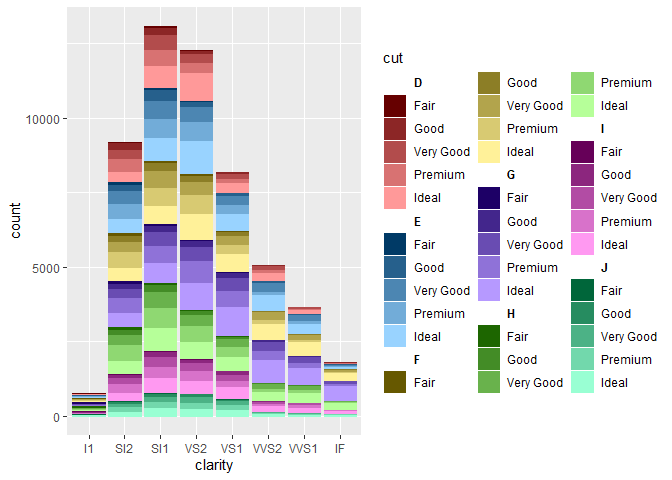
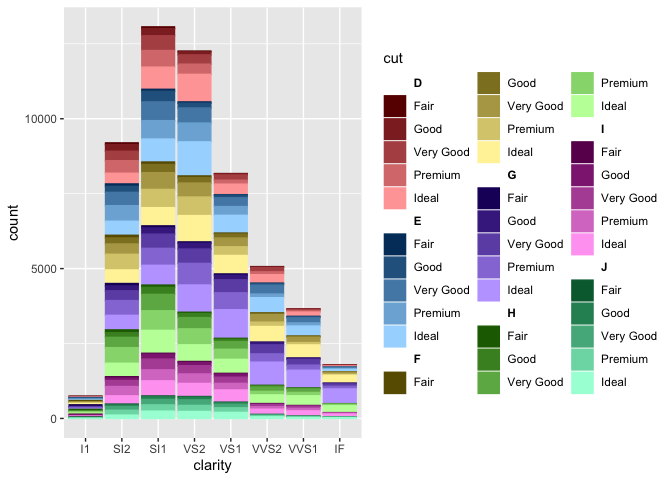
Updated documentation and readme

diff --git a/README.md b/README.md
@@ -139,7 +139,7 @@ Note that if a custom palette is named, the colours will be associated
 with the appropriate `main_group` level.
 
 ``` r
-pal <- c("red", "blue", "green", "yellow", "purple", "orange", "grey50")
+pal <- c("red", "blue", "green", "yellow", "purple", "orange", "violet")
 names(pal) <- unique(diamonds$color)
 p <- ggnested(diamonds, 
          aes(clarity, 
@@ -190,12 +190,69 @@ ggnested(diamonds,
              main_group = color, 
              sub_group = cut),
          gradient_type = "both",
-         min_l = 0.3,
-         max_l = 0.6) + 
+         min_l = 0.25,
+         max_l = 0.95) + 
   geom_bar()
 ```
 
 ![](man/figures/README-gradient_both-1.png)<!-- -->
+
+#### Fancy gradients
+
+As you can tell by the plots above, the shades and tints approach can
+sometimes look a bit flat. A fourth option, `fancy`, is therefore
+available. In this mode, it is recommended to change the default `min_l`
+to a higher number. Furthermore, some additional parameters are
+available, namely `min_c`, `max_c` and `power`. `min_c` and `max_c`
+alter the minimum and maximum chroma of the gradient, which determines
+the saturation. `power` determines whether the gradient is linear (`1`),
+quadratic (`2`) or more.
+
+``` r
+ggnested(diamonds, 
+         aes(clarity, 
+             main_group = color, 
+             sub_group = cut),
+         gradient_type = "fancy",
+         min_l = 0.25,
+         max_l = 0.95) + 
+  geom_bar()
+```
+
+![](man/figures/README-gradient_fancy-1.png)<!-- -->
+
+``` r
+ggnested(diamonds, 
+         aes(clarity, 
+             main_group = color, 
+             sub_group = cut),
+         gradient_type = "fancy",
+         min_l = 0.25,
+         max_l = 0.95,
+         min_c = 100,
+         max_c = 10
+         ) + 
+  geom_bar()
+```
+
+![](man/figures/README-gradient_fancy_chroma-1.png)<!-- -->
+
+``` r
+ggnested(diamonds, 
+         aes(clarity, 
+             main_group = color, 
+             sub_group = cut),
+         gradient_type = "fancy",
+         min_l = 0.25,
+         max_l = 0.95,
+         min_c = 100,
+         max_c = 10,
+         power=2
+         ) + 
+  geom_bar()
+```
+
+![](man/figures/README-gradient_fancy_power-1.png)<!-- -->
 
 #### Palette generation
 
@@ -205,20 +262,20 @@ It’s also possible to create your own nested palette for other purposes:
 nested_palette(diamonds,
                group = "color",
                subgroup = "cut")
-#> # A tibble: 35 x 5
+#> # A tibble: 35 × 5
 #>    color cut       group_colour subgroup_colour group_subgroup
 #>    <ord> <ord>     <chr>        <chr>           <chr>         
-#>  1 D     Fair      #008CF0      #003C66         D_Fair        
-#>  2 D     Good      #008CF0      #26628C         D_Good        
-#>  3 D     Very Good #008CF0      #4C88B2         D_Very Good   
-#>  4 D     Premium   #008CF0      #72AED8         D_Premium     
-#>  5 D     Ideal     #008CF0      #99D5FF         D_Ideal       
-#>  6 E     Fair      #F0CB00      #665600         E_Fair        
-#>  7 E     Good      #F0CB00      #8C7C26         E_Good        
-#>  8 E     Very Good #F0CB00      #B2A24C         E_Very Good   
-#>  9 E     Premium   #F0CB00      #D8C872         E_Premium     
-#> 10 E     Ideal     #F0CB00      #FFEF99         E_Ideal       
-#> # ... with 25 more rows
+#>  1 D     Fair      #008CF0      #003D69         D_Fair        
+#>  2 D     Good      #008CF0      #29648E         D_Good        
+#>  3 D     Very Good #008CF0      #538BB3         D_Very Good   
+#>  4 D     Premium   #008CF0      #7CB2D9         D_Premium     
+#>  5 D     Ideal     #008CF0      #A6DAFF         D_Ideal       
+#>  6 E     Fair      #F0CB00      #695800         E_Fair        
+#>  7 E     Good      #F0CB00      #8E7E29         E_Good        
+#>  8 E     Very Good #F0CB00      #B3A453         E_Very Good   
+#>  9 E     Premium   #F0CB00      #D9CA7C         E_Premium     
+#> 10 E     Ideal     #F0CB00      #FFF1A6         E_Ideal       
+#> # … with 25 more rows
 ```
 
 Alternatively, the colour palette can be extracted from the ggplot2
@@ -226,23 +283,23 @@ object using `extract_palette`.
 
 ``` r
 extract_palette(p)
-#> # A tibble: 35 x 3
+#> # A tibble: 35 × 3
 #>    group_subgroup group_colour subgroup_colour
 #>    <ord>          <chr>        <chr>          
-#>  1 D - Fair       grey50       #333333        
-#>  2 D - Good       grey50       #595959        
-#>  3 D - Very Good  grey50       #7F7F7F        
-#>  4 D - Premium    grey50       #A5A5A5        
-#>  5 D - Ideal      grey50       #CCCCCC        
-#>  6 E - Fair       red          #660000        
-#>  7 E - Good       red          #8C2626        
-#>  8 E - Very Good  red          #B24C4C        
-#>  9 E - Premium    red          #D87272        
-#> 10 E - Ideal      red          #FF9999        
-#> # ... with 25 more rows
+#>  1 D - Fair       violet       #5C0D5C        
+#>  2 D - Good       violet       #823582        
+#>  3 D - Very Good  violet       #A85EA8        
+#>  4 D - Premium    violet       #CE87CE        
+#>  5 D - Ideal      violet       #F4B0F4        
+#>  6 E - Fair       red          #690000        
+#>  7 E - Good       red          #8E2929        
+#>  8 E - Very Good  red          #B35353        
+#>  9 E - Premium    red          #D97C7C        
+#> 10 E - Ideal      red          #FFA6A6        
+#> # … with 25 more rows
 ```
 
-#### Affected aethetics
+#### Affected aesthetics
 
 By default, both the `color` and `fill` aesthetics of the plot are
 altered by `ggnested`. However, it is possible to specify which
